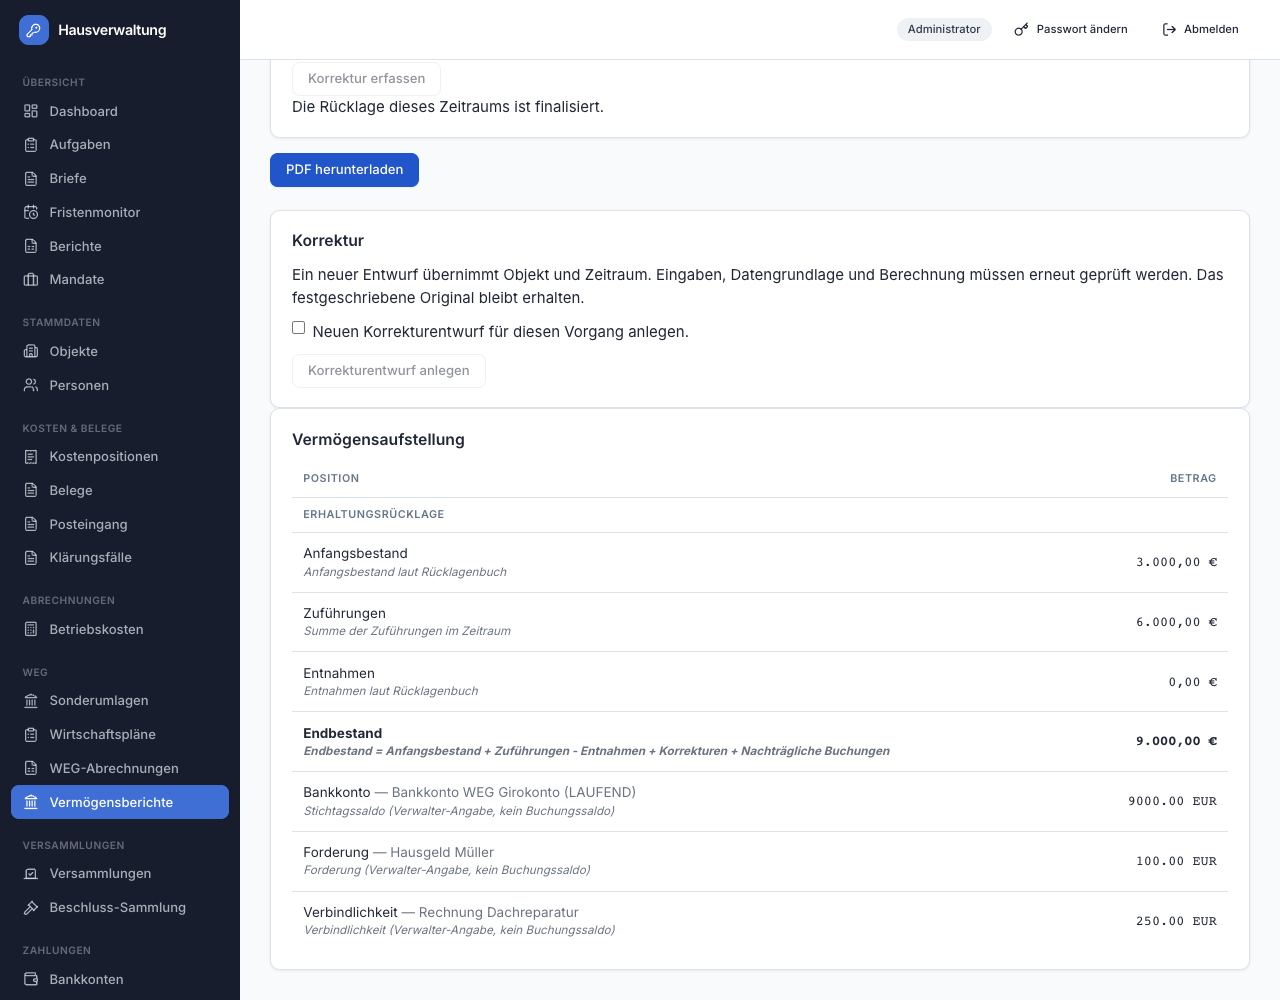
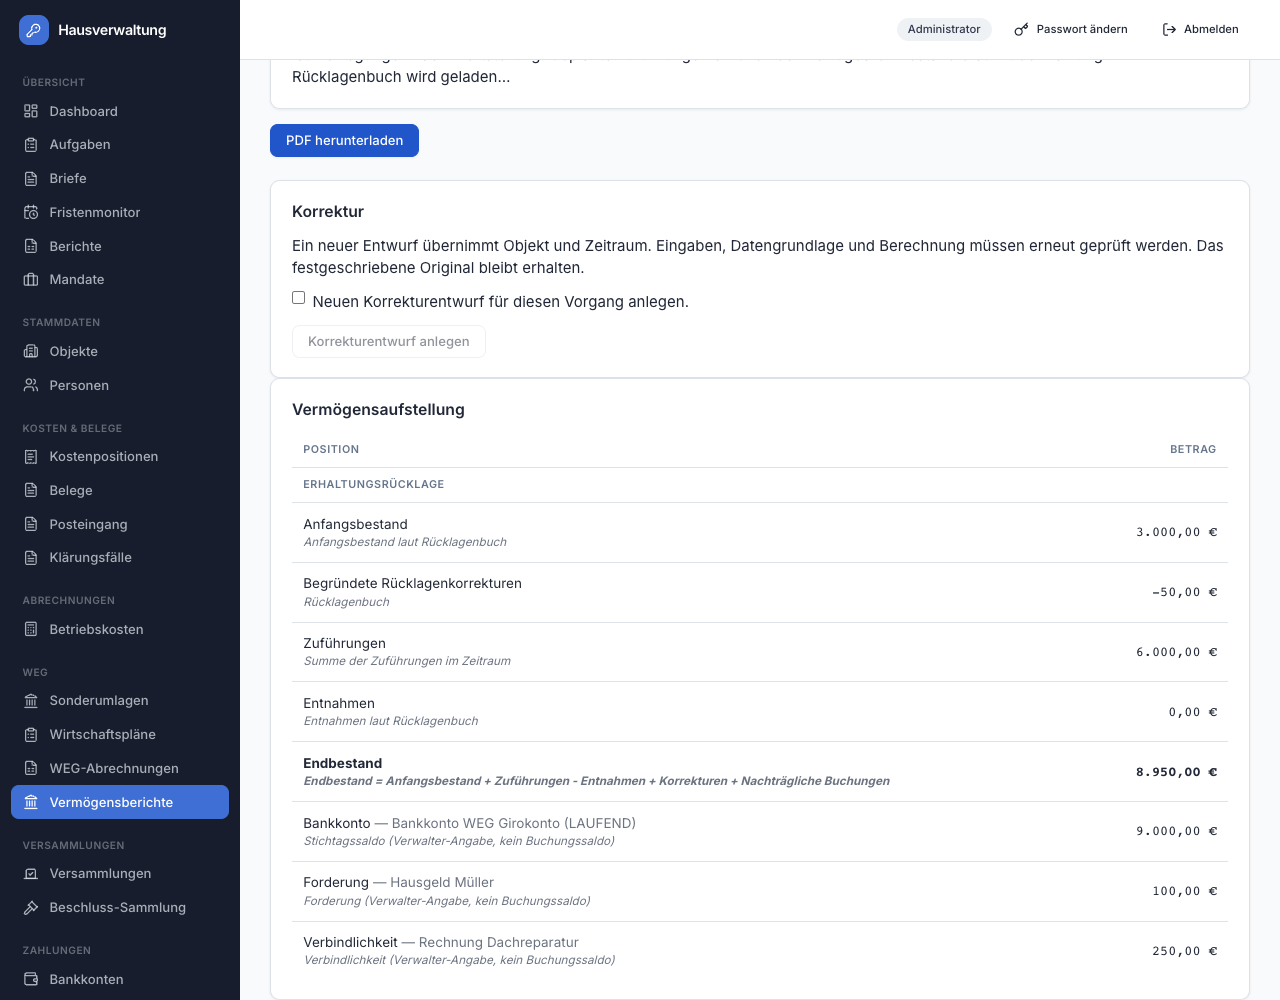
fix(asset-report): share currency formatting across all holdings
The holdings table mixed German reserve amounts with raw decimals on bank and correction rows. Share the ledger formatter, preserve historic reserve explanations, and verify signed amounts and cent precision in page and browser checks.

Refs #213

diff --git a/frontend/src/pages/AssetReportDetailPage.test.tsx b/frontend/src/pages/AssetReportDetailPage.test.tsx
@@ -5,12 +5,12 @@ import { AssetReportDetailPage } from "./AssetReportDetailPage";
 const json = (body: unknown, status = 200) => new Response(JSON.stringify(body), { status, headers: { "Content-Type": "application/json" } });
 afterEach(() => { cleanup(); vi.unstubAllGlobals(); vi.restoreAllMocks(); });
 
-it('shows four plain reserve labels and German amounts in a finalized report while preserving other positions', async () => {
+it('shows plain reserve labels and German amounts for every position in a finalized report', async () => {
   const lines = [
     { line_type: 'RESERVE_OPENING', label: 'Erhaltungsruecklage Anfangsbestand', amount: '3000.00' },
-    { line_type: 'RESERVE_CONTRIBUTION', label: 'Zufuehrung Erhaltungsruecklage', amount: '1234.56', note: 'Summe der Zufuehrungen im Zeitraum' },
+    { line_type: 'RESERVE_CONTRIBUTION', label: 'Zufuehrung Erhaltungsruecklage', amount: '1234.56', note: 'Summe der Zufuehrungen im Zeitraum · Nachweis geprüft' },
     { line_type: 'RESERVE_WITHDRAWAL', label: 'Entnahme Erhaltungsruecklage', amount: '0.00' },
-    { line_type: 'RESERVE_CLOSING', label: 'Erhaltungsruecklage Endbestand', amount: '4184.56' },
+    { line_type: 'RESERVE_CLOSING', label: 'Erhaltungsruecklage Endbestand', amount: '4184.56', note: 'Endbestand = Anfangsbestand + Zufuehrungen - Entnahmen' },
     { line_type: 'BANK_BALANCE', label: 'Bankkonto Giro (LAUFEND)', amount: '4234.56', note: 'Stichtagssaldo (Verwalter-Angabe, kein Buchungssaldo)' },
     { line_type: 'RECEIVABLE', label: 'Hausgeld Müller', amount: '100.00' },
     { line_type: 'PAYABLE', label: 'Rechnung Dachreparatur', amount: '250.00' },
@@ -28,10 +28,32 @@ it('shows four plain reserve labels and German amounts in a finalized report whi
     expect(within(cell.closest('tr')!).getAllByRole('cell')[1]).toHaveTextContent(amount);
   }
   expect(table).not.toHaveTextContent(/Erhaltungsruecklage|Zufuehrung|RESERVE_/);
-  expect(within(table).getByRole('row', { name: /Bankkonto.*— Bankkonto Giro \(LAUFEND\).*4234.56 EUR/ })).toHaveTextContent('Stichtagssaldo (Verwalter-Angabe, kein Buchungssaldo)');
-  expect(within(table).getByRole('row', { name: /Forderung.*— Hausgeld Müller 100.00 EUR/ })).toBeInTheDocument();
-  expect(within(table).getByRole('row', { name: /Verbindlichkeit.*— Rechnung Dachreparatur 250.00 EUR/ })).toBeInTheDocument();
-  expect(within(table).getByRole('row', { name: 'Begründete Rücklagenkorrekturen -50.00 EUR' })).toBeInTheDocument();
+  expect(within(table).getByText('Endbestand = Anfangsbestand + Zuführungen - Entnahmen', { exact: true })).toBeInTheDocument();
+  expect(within(table).getByText('Summe der Zuführungen im Zeitraum · Nachweis geprüft', { exact: true })).toBeInTheDocument();
+  const bank = within(table).getByRole('row', { name: /Bankkonto.*— Bankkonto Giro \(LAUFEND\)/ });
+  expect(bank).toHaveTextContent('Stichtagssaldo (Verwalter-Angabe, kein Buchungssaldo)');
+  expect(within(bank).getAllByRole('cell')[1]).toHaveTextContent('4.234,56 €');
+  for (const [label, amount] of [[/Forderung.*— Hausgeld Müller/, '100,00 €'], [/Verbindlichkeit.*— Rechnung Dachreparatur/, '250,00 €'], [/Begründete Rücklagenkorrekturen/, '-50,00 €']] as const) {
+    expect(within(within(table).getByRole('row', { name: label })).getAllByRole('cell')[1]).toHaveTextContent(amount);
+  }
+  expect(within(table).getAllByRole('row').slice(2).map(row => within(row).getAllByRole('cell')[1].textContent?.replace(/\s/g, ' '))).toEqual([
+    '3.000,00 €', '1.234,56 €', '0,00 €', '4.184,56 €', '4.234,56 €', '100,00 €', '250,00 €', '-50,00 €',
+  ]);
+});
+
+it.each([
+  ['999999999999.99', '999.999.999.999,99 €'],
+  ['-999999999999.99', '-999.999.999.999,99 €'],
+  ['0.01', '0,01 €'],
+  ['-0.01', '-0,01 €'],
+])('preserves cents when displaying the API amount %s', async (amount, expected) => {
+  vi.stubGlobal('fetch', vi.fn(async (url: string) => json(
+    url === '/api/properties' || url.includes('/bank-accounts') ? []
+    : url.endsWith('/reserve-ledger') ? { entries: [], frozen: true }
+    : { id: 'run-1', status: 'finalized', property_id: 'property-1', lines: [{ id: 'line-1', line_type: 'BANK_BALANCE', label: 'Bankkonto', amount }] })));
+  render(<MemoryRouter initialEntries={['/report/run-1']}><Routes><Route path="/report/:runId" element={<AssetReportDetailPage />} /></Routes></MemoryRouter>);
+  const table = (await screen.findByRole('heading', { name: 'Vermögensaufstellung' })).parentElement!;
+  expect(within(within(table).getByRole('row', { name: /^Bankkonto/ })).getAllByRole('cell')[1]).toHaveTextContent(expected);
 });
 
 it('keeps delete and ledger identities distinct without React console errors', async () => {

diff --git a/frontend/src/pages/AssetReportDetailPage.tsx b/frontend/src/pages/AssetReportDetailPage.tsx
@@ -19,6 +19,7 @@ import {
 } from "../api/endpoints";
 import type { WegRun, AssetItemIn, AssetReportComputeRequest, Property, BankAccount } from "../api/types";
 import { ApiError } from "../api/client";
+import { formatEuro } from "../lib/utils";
 
 const STATUS_LABELS: Record<string, string> = { draft: "Entwurf", finalized: "Finalisiert" };
 const STATUS_CSS: Record<string, string> = { draft: "badge--draft", finalized: "badge--confirmed" };
@@ -29,7 +30,6 @@ const RESERVE_LABELS: Record<string, string> = {
   RESERVE_WITHDRAWAL: "Entnahmen",
   RESERVE_CLOSING: "Endbestand",
 };
-const euro = new Intl.NumberFormat('de-DE', { style: 'currency', currency: 'EUR' });
 const LINE_LABELS: Record<string, string> = {
   BANK_BALANCE: "Bankkonto",
   RECEIVABLE: "Forderung",
@@ -218,7 +218,7 @@ export function AssetReportDetailPage() {
               {run.lines.map((l, index) => {
                 const isClosing = l.line_type === "RESERVE_CLOSING";
                 const reserveLabel = RESERVE_LABELS[l.line_type];
-                const note = l.line_type === "RESERVE_CONTRIBUTION" && l.note ? "Summe der Zuführungen im Zeitraum" : l.note;
+                const note = reserveLabel ? l.note?.replace(/\bZufuehrungen\b/g, "Zuführungen") : l.note;
                 return (
                   <Fragment key={l.id}>
                     {index === firstReserveIndex && <tr><th colSpan={2}>Erhaltungsrücklage</th></tr>}
@@ -229,7 +229,7 @@ export function AssetReportDetailPage() {
                           ? <span style={{ color: "var(--text-muted)" }}> — {l.label}</span> : null}
                         {note ? <div style={{ fontSize: "0.78rem", color: "var(--text-muted)", fontStyle: "italic" }}>{note}</div> : null}
                       </td>
-                      <td style={{ fontFamily: "var(--mono)", textAlign: "right" }}>{reserveLabel ? euro.format(Number(l.amount)) : `${l.amount} EUR`}</td>
+                      <td style={{ fontFamily: "var(--mono)", textAlign: "right" }}>{formatEuro(l.amount)}</td>
                     </tr>
                   </Fragment>
                 );

diff --git a/frontend/src/components/ReserveLedgerPanel.tsx b/frontend/src/components/ReserveLedgerPanel.tsx
@@ -4,8 +4,8 @@ import { useEffect, useId, useState } from 'react';
 import { addReserveOverride, deleteReserveContribution, reduceReserveContribution, getReserveLedger, listCostEntries, listPayments, listRegisterEntries } from '../api/endpoints';
 import type { CostEntry, Payment, RegisterEntry, ReserveComponent, ReserveLedger, ReserveOverride } from '../api/types';
 import { Dialog, DialogContent, DialogDescription, DialogTitle } from './ui/dialog';
+import { formatEuro as euro } from '../lib/utils';
 
-const euro = (amount: string) => new Intl.NumberFormat('de-DE', { style: 'currency', currency: 'EUR' }).format(Number(amount));
 const day = (value: string) => value.split('-').reverse().join('.');
 const labels: Record<string, string> = { PLANNED: 'Geplant (Soll)', CONTRIBUTION: 'Gebuchte Zuführung', WITHDRAWAL: 'Finanzierte Entnahme',
   OVERRIDE: 'Begründete Korrektur', OPENING: 'Anfangsbestand', ADJUSTMENT: 'Sonstige Korrektur', FUNDING: 'Finanzierte Entnahme verknüpfen',

diff --git a/frontend/src/lib/utils.ts b/frontend/src/lib/utils.ts
@@ -6,6 +6,12 @@ export function cn(...inputs: ClassValue[]): string {
   return twMerge(clsx(inputs));
 }
 
+const euro = new Intl.NumberFormat("de-DE", { style: "currency", currency: "EUR" });
+
+export function formatEuro(amount: string): string {
+  return euro.format(Number(amount));
+}
+
 export function canonicalValue(input: string): string | null {
   const trimmed = input.trim();
   const normalized = /^\d{1,3}(?:\.\d{3})+,\d{1,4}$/.test(trimmed)

diff --git a/backend/tests/bdd/test_maintenance_reserve_ledger.py b/backend/tests/bdd/test_maintenance_reserve_ledger.py
@@ -354,6 +354,7 @@ def draft_reserve_wording(world, reserve_scenario, browser_world, tmp_path):
 
 @when('I finalize an asset report with an opening of 3000 euros')
 def finalize_plain_asset_report(world, reserve_scenario):
+    from tests.financial_coverage_helpers import reserve_evidence
     w = reserve_scenario
     report = create(world, '/api/weg-settlements/asset-reports', {
         'property_id': w['property'], 'accounting_scope_id': w['scope'],
@@ -366,11 +367,24 @@ def finalize_plain_asset_report(world, reserve_scenario):
         'receivables': [{'label': 'Hausgeld Müller', 'amount': '100.00'}],
         'payables': [{'label': 'Rechnung Dachreparatur', 'amount': '250.00'}]}
     world.run(attest_fixture(world.actor, 'settlement', report['id'], values))
+    category = next(row for row in world.act('GET', '/api/cost-categories').json() if row['code'] == 'GARTENPFLEGE')
+    cost = create(world, '/api/cost-entries', {'property_id': w['property'], 'accounting_scope_id': w['scope'],
+        'cost_category_id': category['id'], 'cost_category_plan_version': category['plan_version'],
+        'document_number': 'RE-asset-report-correction', 'invoice_date': '2025-02-01',
+        'service_period_from': '2025-01-01', 'service_period_to': '2025-12-31',
+        'gross_amount': '50.00', 'tenant_apportionable': 'UMLAGEFAEHIG', 'source': 'MANUAL'})
+    assert world.act('POST', f"/api/cost-entries/{cost['id']}/confirm").status_code == 200
+    evidence = world.run(reserve_evidence(world.actor, {**w, 'ce_garten': cost['id']}))
+    response = world.act('POST', f"/api/weg-settlements/{report['id']}/reserve-ledger/overrides", json={
+        'component': 'ADJUSTMENT', 'amount': '-50.00', 'reason': 'Begründete Rücklagenkorrektur',
+        **{key.removeprefix('reserve_'): value for key, value in evidence.items()}})
+    assert response.status_code == 201, response.text
+    world.run(attest_fixture(world.actor, 'settlement', report['id'], values))
     response = world.act('POST', f"/api/weg-settlements/asset-reports/{report['id']}/finalize", json=values)
     assert response.status_code == 200, response.text
 
 
-@then('the asset report shows four plain reserve labels and German amounts on desktop and mobile')
+@then('the asset report shows four plain reserve labels and every amount in German format on desktop and mobile')
 def plain_asset_report(world, reserve_scenario, browser_world, tmp_path):
     import os
     import re
@@ -402,15 +416,16 @@ def plain_asset_report(world, reserve_scenario, browser_world, tmp_path):
             await page.set_viewport_size({'width': width, 'height': 1000})
             await expect(table.get_by_role('columnheader', name='Erhaltungsrücklage', exact=True)).to_be_visible()
             for label, amount in [('Anfangsbestand', '3.000,00 €'), ('Zuführungen', '6.000,00 €'),
-                                  ('Entnahmen', '0,00 €'), ('Endbestand', '9.000,00 €')]:
+                                  ('Entnahmen', '0,00 €'), ('Endbestand', '8.950,00 €')]:
                 row = table.get_by_role('row').filter(has_text=re.compile(f'^{label}'))
                 await expect(row).to_have_count(1)
                 await expect(row.get_by_role('cell').last).to_have_text(amount)
             text = await table.inner_text()
             assert 'Erhaltungsruecklage' not in text and 'Zufuehrung' not in text
             assert 'RESERVE_' not in text
-            await expect(table.get_by_role('row').filter(has_text='Hausgeld Müller')).to_contain_text('100.00 EUR')
-            await expect(table.get_by_role('row').filter(has_text='Rechnung Dachreparatur')).to_contain_text('250.00 EUR')
+            for label, amount in [('WEG Girokonto', '9.000,00 €'), ('Hausgeld Müller', '100,00 €'),
+                                  ('Rechnung Dachreparatur', '250,00 €'), ('Begründete Rücklagenkorrekturen', '-50,00 €')]:
+                await expect(table.get_by_role('row').filter(has_text=label).get_by_role('cell').last).to_have_text(amount)
             assert await page.evaluate('document.documentElement.scrollWidth <= window.innerWidth')
 
     browser_world.run(inspect())

diff --git a/DESIGN.md b/DESIGN.md
@@ -648,10 +648,14 @@ Use the money and date contracts below; carry amounts as decimal strings.
 
 In the asset report's “Vermögensaufstellung”, the four reserve development rows
 appear under “Erhaltungsrücklage” as “Anfangsbestand”, “Zuführungen”, “Entnahmen”
-and “Endbestand”. Their amounts use the same German currency formatting as the
-reserve ledger (`3.000,00 €`), without repeating the stored internal labels.
+and “Endbestand”, without repeating the stored internal labels. Every amount in
+the holdings table uses the same shared German currency formatter as the
+reserve ledger (`3.000,00 €`), including bank balances, receivables, payables and
+signed reserve adjustments.
 The closing row remains bold and retains its calculation explanation. Other
-report positions retain their existing labels, notes and amount display.
+report positions retain their existing labels, notes, order and values.
+The four reserve notes display the legacy word `Zufuehrungen` as `Zuführungen`,
+preserving all other stored wording, including shorter historical closing formulas.
 
 Synthetic finalized report from the test database (1280 and 360 px):
 
@@ -660,13 +664,13 @@ Synthetic finalized report from the test database (1280 and 360 px):
 | Before | [View](docs/assets/design/asset-report-reserve/before-1280.png) | [View](docs/assets/design/asset-report-reserve/before-360.png) |
 | After | [View](docs/assets/design/asset-report-reserve/asset-report-1280.png) | [View](docs/assets/design/asset-report-reserve/asset-report-360.png) |
 
-`frontend/src/lib/` holds no formatting helper (`utils.ts` is only `cn`; `costVocabulary.ts`,
-`heatingInputs.ts`, `settlementInputNeeds.ts` are domain helpers). Formatting uses file-local functions
-or inline expressions, with the variants below. The inconsistencies are tracked in #48.
+`frontend/src/lib/utils.ts` provides `formatEuro()` for the reserve ledger and
+asset-report holdings table. Other readers still use file-local functions or
+inline expressions, with the variants below. The inconsistencies are tracked in #48.
 
 | What | Contract | Implemented by |
 |---|---|---|
-| Money | `1.234,56 €`: `.` thousands, `,` decimals, always two, sign first (`-1.234,56 €`), no float arithmetic | `euros()` in `components/DashboardKpis.tsx`, `money()` in `pages/BankTransactionsPage.tsx` (both `€`) |
+| Money | `1.234,56 €`: `.` thousands, `,` decimals, always two, sign first (`-1.234,56 €`), no float arithmetic | Shared `formatEuro()` in `lib/utils.ts` for `ReserveLedgerPanel` and `AssetReportDetailPage`; file-local `euros()` in `components/DashboardKpis.tsx`, `money()` in `pages/BankTransactionsPage.tsx` |
 | Money, deviating | same grouping but suffix ` EUR`; `OpenItemsPage.tsx` uses ungrouped `toFixed(2)` plus ` EUR` (`1234.56 EUR`) | `money()` in `pages/ReportsPage.tsx`, `formatCents()` in `pages/PaymentsPage.tsx` and `pages/CostEntriesPage.tsx`, `formatProposalMoney()` in `pages/SettlementDetailPage.tsx`; ` EUR` appears 93 times in 30 files, `€` in 2. `displayCents()` in `api/allocationProposals.ts` prints `1234,56` without grouping or suffix. |
 | Date | `TT.MM.JJJJ`, e.g. `05.03.2026`, from the ISO API value | `formatDate()` in `pages/DashboardPage.tsx`, `FristenmonitorPage.tsx`, `MandatePage.tsx`; `date()` in `BankTransactionsPage.tsx`; `dateLabel()` in `DashboardKpis.tsx` |
 | Date, deviating | `toLocaleDateString("de-DE")` or `Intl.DateTimeFormat("de-DE")` prints `5.3.2026` (no zero padding) | `MandateDetailPage.tsx`, `AttachmentsPanel.tsx`; `components/knowledge/PropertyDocuments.tsx` uses `Intl.DateTimeFormat` |

diff --git a/docs/m4-weg-abrechnung.md b/docs/m4-weg-abrechnung.md
@@ -909,9 +909,13 @@ rows, overdrawn/missing-link feedback and a reasoned correction dialog. Manual
 bank key-date balances, receivables and payables remain administrator inputs.
 In the asset report's displayed holdings table, the four reserve development rows
 are grouped under “Erhaltungsrücklage”: “Anfangsbestand”, “Zuführungen”, “Entnahmen”
-and “Endbestand”, each with German currency formatting such as `3.000,00 €`.
+and “Endbestand”. All holdings amounts use the reserve ledger's shared German
+currency formatter, such as `3.000,00 €` and `-50,00 €`, including bank balances,
+receivables, payables and signed reserve adjustments.
 Stored internal reserve labels are not repeated. The closing explanation remains
-visible; other positions and the PDF are unchanged.
+visible; labels, notes, order and values of other positions and the PDF are unchanged.
+Reserve notes display legacy `Zufuehrungen` as `Zuführungen` while preserving the
+rest of their stored wording, including historical closing formulas.
 Ledger reads add current, access-controlled owner names, payment notes, cost
 document numbers and resolution register numbers for links to the source records;
 the retained snapshot and its amounts remain unchanged. Typed withdrawal
